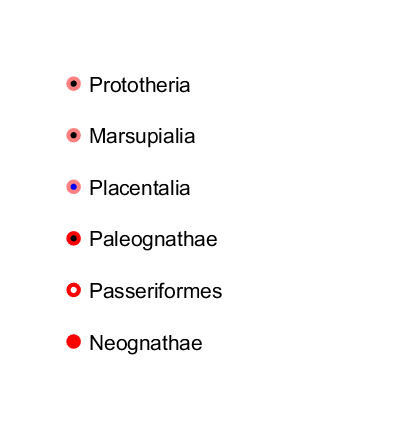
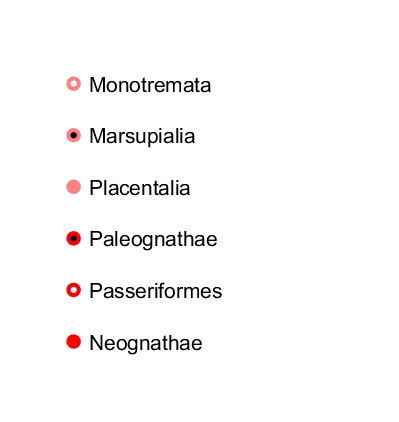
update

Changed region(s): [[0.1805, 0.1848, 0.5414, 0.2464], [0.1805, 0.4313, 0.2105, 0.4621]]

diff --git a/table.html b/table.html
@@ -1,0 +1,28 @@
+<!DOCTYPE html>
+<html>
+<head>
+  <title>table</title>
+  <style>
+    div.tab {
+      width: 90%;
+      margin: auto;
+      padding-top: 30px;
+    }
+
+    .head {
+      background-color: #FFE7C6
+    }
+
+    #tab {
+      border-style: solid hidden solid hidden;
+    }
+
+    tr:nth-child(even){background-color: #f2f2f2}
+  </style>
+</head>
+
+<body>
+
+  <div class="tab">
+  <table id="tab">
+    <tr class="head">

diff --git a/GenoIsle2018.m b/GenoIsle2018.m
@@ -818,25 +818,63 @@ Mamm = { ... % data from GenoIsle2018: weight (g), BMR (ml O2/h)
 'Tachyglossus aculeatus'	2140.00'	280.30
 'Zaglossus bruijni'	10300.00'	1215.40};
 
-nm=Mamm(:,1); nm=strrep(nm,' ','_'); data=cell2mat(Mamm(:,2:3)); data(:,2)=data(:,2)/60; % convert to ml O2/min
-mamm_AmP=select('Mammalia'); sel=ismember(nm,mamm_AmP); nm=nm(sel); data=data(sel,:); 
-n=length(nm); FMR = zeros(n,1);
-for j=1:n; FMR(j) = 15.55 * get_FMR(nm{j},data(j,1)); end % convert mol/d to ml O2/min
-[~,n]= ismember('Antechinus_flavipes',nm); % first marsupial
+% nm=Mamm(:,1); nm=strrep(nm,' ','_'); data=cell2mat(Mamm(:,2:3)); data(:,2)=data(:,2)/60; % convert to ml O2/min
+% mamm_AmP=select('Mammalia'); sel=ismember(nm,mamm_AmP); nm=nm(sel); data=data(sel,:); 
+% n=length(nm); FMR = zeros(n,1);
+% for j=1:n; FMR(j) = 15.55 * get_FMR(nm{j},data(j,1)); end % convert mol/d to ml O2/min
+% [~,n]= ismember('Antechinus_flavipes',nm); % first marsupial
+% 
+% Hfig = figure;
+% plot([-1;4], [-1;4], '-k', 'LineWidth', 2);
+% hold on
+% plot(log10(FMR(1:n-1)), log10(data(1:n-1,2)), 'o', 'MarkerSize',4, 'LineWidth',2, 'MarkerEdgeColor',[1 .5 .5], 'MarkerFaceColor',[1 .5 .5])
+% plot(log10(FMR(n:end)), log10(data(n:end,2)), 'o', 'MarkerSize',4, 'LineWidth',2, 'MarkerEdgeColor',[1 .5 .5], 'MarkerFaceColor',[0 0 0])
+% xlabel('predicted _{10}log FMR, ml O2/min')
+% ylabel('measured _{10}log BMR, ml O2/min')
+% 
+%  % set species names behind markers in plot figure
+%  h = datacursormode(Hfig); entries_txt = strrep(nm, '_', ' ');
+%  data = log10([FMR,data(:,2)]);
+%  h.UpdateFcn = @(obj, event_obj)xylabels(obj, event_obj, entries_txt, data);
+%  datacursormode on % mouse click on plot
+% 
+%  saveas(gcf,'FMR_BMR_GenoIsle2017.fig')
+%  saveas(gcf,'FMR_BMR_GenoIsle2017.png')
 
-Hfig = figure;
-plot([-1;4], [-1;4], '-k', 'LineWidth', 2);
-hold on
-plot(log10(FMR(1:n-1)), log10(data(1:n-1,2)), 'o', 'MarkerSize',4, 'LineWidth',2, 'MarkerEdgeColor',[1 .5 .5], 'MarkerFaceColor',[1 .5 .5])
-plot(log10(FMR(n:end)), log10(data(n:end,2)), 'o', 'MarkerSize',4, 'LineWidth',2, 'MarkerEdgeColor',[1 .5 .5], 'MarkerFaceColor',[0 0 0])
-xlabel('predicted _{10}log FMR, ml O2/min')
-ylabel('measured _{10}log BMR, ml O2/min')
+  % check scaling exponents as given in GavrGolu2023
+ nm=Mamm(:,1); nm=strrep(nm,' ','_'); data=cell2mat(Mamm(:,2:3)); data(:,2)=data(:,2)/60; % convert to ml O2/min
+ [~,n_mar]= ismember('Antechinus_flavipes',nm); % first marsupial
+ [~,n_mon]= ismember('Ornithorhynchus_anatinus',nm); % first monotremata
+ data_pla = data(1:n_mar-1,:); data_mar = data(n_mar:n_mon-1,:); data_mon = data(n_mon:end,:); Wrange = [0;7];
+ [~,slope_pla,Jrange_pla] = get_axis(log10(data_pla),Wrange); n_pla = size(data_pla,1);
+ [~,slope_mar,Jrange_mar] = get_axis(log10(data_mar),Wrange); n_mar = size(data_mar,1);
+ [~,slope_mon,Jrange_mon] = get_axis(log10(data_mon),Wrange); n_mon = size(data_mon,1);
 
- % set species names behind markers in plot figure
- h = datacursormode(Hfig); entries_txt = strrep(nm, '_', ' ');
- data = log10([FMR,data(:,2)]);
- h.UpdateFcn = @(obj, event_obj)xylabels(obj, event_obj, entries_txt, data);
- datacursormode on % mouse click on plot
+ figure;
+ plot(Wrange,Jrange_pla,'k', 'LineWidth',2)
+ hold on
+ plot(log10(data_pla(:,1)),log10(data_pla(:,2)),'o', 'MarkerSize',5, 'LineWidth',2, 'MarkerFaceColor',[1 .5 .5], 'MarkerEdgeColor',[1 .5 .5])
+ xlabel('_{10}log body mass, g')
+ ylabel('_{10}log BMR, mg O_2/min')
+ title(['scaling exponent ',num2str(slope_pla),' for ', num2str(n_pla),' Placentalia of GavrGolu2023']);
+ saveas(gcf, 'W_BMR_pla_GavrGolu2023.png')
+ 
+ figure;
+ plot(Wrange,Jrange_mar,'k', 'LineWidth',2)
+ hold on
+ plot(log10(data_mar(:,1)),log10(data_mar(:,2)),'o', 'MarkerSize',5, 'LineWidth',2, 'MarkerFaceColor',[0 0 0], 'MarkerEdgeColor',[1 .5 .5])
+ xlabel('_{10}log body mass, g')
+ ylabel('_{10}log BMR, mg O_2/min')  
+ title(['scaling exponent ',num2str(slope_neo),' for ', num2str(n_neo),' Marsupialia of GavrGolu2023']);
+ saveas(gcf, 'W_BMR_mar_GavrGolu2023.png')
+ 
+ 
+ figure;
+ plot(Wrange,Jrange_mon,'k', 'LineWidth',2)
+ hold on
+ plot(log10(data_mon(:,1)),log10(data_mon(:,2)),'o', 'MarkerSize',5, 'LineWidth',2, 'MarkerFaceColor',[1 1 1], 'MarkerEdgeColor',[1 .5 .5])
+ xlabel('_{10}log body mass, g')
+ ylabel('_{10}log BMR, mg O_2/min')
+ title(['scaling exponent ',num2str(slope_mon),' for ', num2str(n_mon),' Monotremata of GavrGolu2023']);
+ saveas(gcf, 'W_BMR_mon_GavrGolu2023.png')
 
- saveas(gcf,'FMR_BMR_GenoIsle2017.fig')
- saveas(gcf,'FMR_BMR_GenoIsle2017.png')

diff --git a/GavrGolu2023.m b/GavrGolu2023.m
@@ -1077,3 +1077,40 @@ ylabel('measured _{10}log BMR, ml O2/min')
  saveas(gcf,'FMR_BMR_GavrGolu2023.fig')
  saveas(gcf,'FMR_BMR_GavrGolu2023.png')
  
+ % check scaling exponents as given in GavrGolu2023
+ nm=Aves(:,1); nm=strrep(nm,' ','_'); data=cell2mat(Aves(:,2:3)); data(:,2)=data(:,2)/60; % convert to ml O2/min
+ [~,n_neo]= ismember('Accipiter_cooperii',nm); % first Neognathae
+ [~,n_pas]= ismember('Abroscopus_superciliaris',nm); % first Passeriformes
+ data_pal = data(1:n_neo-1,:); data_neo = data(n_neo:n_pas-1,:); data_pas = data(n_pas:end,:); Wrange = [0.5;5];
+ [~,slope_pal,Jrange_pal] = get_axis(log10(data_pal),Wrange); n_pal = size(data_pal,1);
+ [~,slope_neo,Jrange_neo] = get_axis(log10(data_neo),Wrange); n_neo = size(data_neo,1);
+ [~,slope_pas,Jrange_pas] = get_axis(log10(data_pas),Wrange); n_pas = size(data_pas,1);
+
+ figure;
+ plot(Wrange,Jrange_pal,'k', 'LineWidth',2)
+ hold on
+ plot(log10(data_pal(:,1)),log10(data_pal(:,2)),'o', 'MarkerSize',5, 'LineWidth',2, 'MarkerFaceColor',[0 0 0], 'MarkerEdgeColor',[1 0 0])
+ xlabel('_{10}log body mass, g')
+ ylabel('_{10}log BMR, mg O_2/min')
+ title(['scaling exponent ',num2str(slope_pal),' for ', num2str(n_pal),' Paleognathae of GavrGolu2023']);
+ saveas(gcf, 'W_BMR_pal_GavrGolu2023.png')
+ 
+ figure;
+ plot(Wrange,Jrange_neo,'k', 'LineWidth',2)
+ hold on
+ plot(log10(data_neo(:,1)),log10(data_neo(:,2)),'o', 'MarkerSize',5, 'LineWidth',2, 'MarkerFaceColor',[1 0 0], 'MarkerEdgeColor',[1 0 0])
+ xlabel('_{10}log body mass, g')
+ ylabel('_{10}log BMR, mg O_2/min')
+ title(['scaling exponent ',num2str(slope_neo),' for ', num2str(n_neo),' Neognathae-non Pass of GavrGolu2023']);
+ saveas(gcf, 'W_BMR_neo_GavrGolu2023.png')
+ 
+ 
+ figure;
+ plot(Wrange,Jrange_pas,'k', 'LineWidth',2)
+ hold on
+ plot(log10(data_pas(:,1)),log10(data_pas(:,2)),'o', 'MarkerSize',5, 'LineWidth',2, 'MarkerFaceColor',[1 1 1], 'MarkerEdgeColor',[1 0 0])
+ xlabel('_{10}log body mass, g')
+ ylabel('_{10}log BMR, mg O_2/min')
+ title(['scaling exponent ',num2str(slope_pas),' for ', num2str(n_pas),' Passeriformes of GavrGolu2023']);
+ saveas(gcf, 'W_BMR_pas_GavrGolu2023.png')
+

diff --git a/VerhKooy2025_SI.m b/VerhKooy2025_SI.m
@@ -762,9 +762,9 @@ for c=1:length(fig)
     case 10 % GavrGolu2023
         
       legend_GavrGolu2023 = {...
-        {'o', 5, 2, [1 .5 .5], [0 0 0]}, 'Prototheria'   % 0.26
+        {'o', 5, 2, [1 .5 .5], [1 1 1]}, 'Monotremata'   % 0.26
         {'o', 5, 2, [1 .5 .5], [0 0 0]}, 'Marsupialia'   % 0.44
-        {'o', 5, 2, [1 .5 .5], [0 0 1]}, 'Placentalia'   % 0.57
+        {'o', 5, 2, [1 .5 .5], [1 .5 .5]}, 'Placentalia'   % 0.57
         {'o', 5, 2, [1 0 0], [0 0 0]}, 'Paleognathae'  % 0.53
         {'o', 5, 2, [1 0 0], [1 1 1]}, 'Passeriformes' % 1.00
         {'o', 5, 2, [1 0 0], [1 0 0]}, 'Neognathae'    % 0.75  Neognathae - Passeriformes
